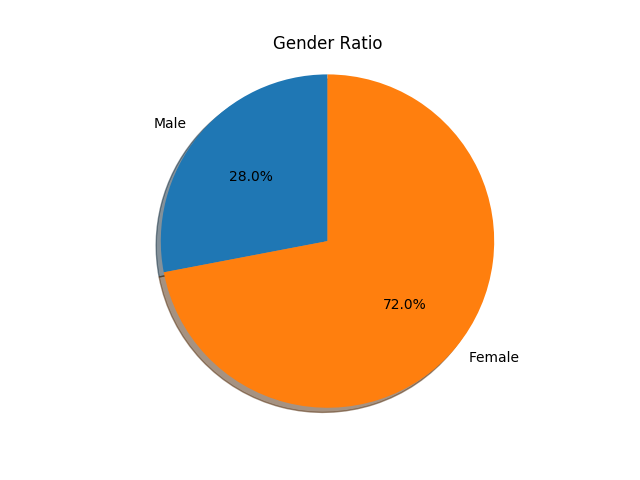
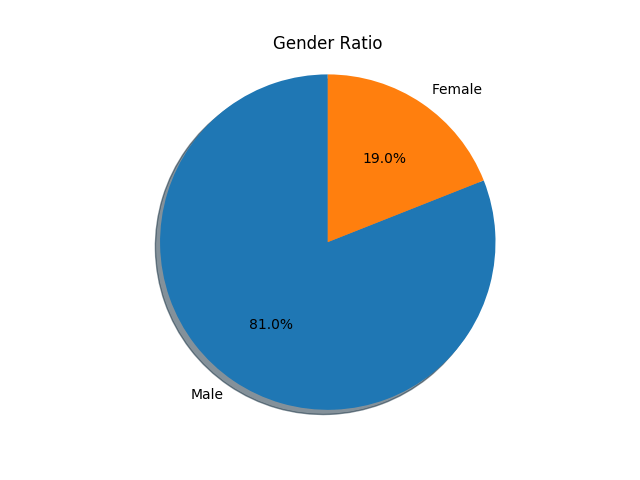
Fixed graphs function and uploaded physicist gender

diff --git a/graphs.py b/graphs.py
@@ -31,20 +31,20 @@ divorcerate_df = pd.DataFrame(divorcerate)
 gender = pd.read_csv('files/tabula-gender.csv')
 gender_df = pd.DataFrame(gender)
 
-spending = pd.read_csv('files/tabula-spending.csv')
-spending_df = pd.DataFrame(spending)
+#spending = pd.read_csv('files/tabula-spending.csv')
+#spending_df = pd.DataFrame(spending)
 
 race = pd.read_excel("files/race.xlsx")
 race_df = pd.DataFrame(race)
 
 
-def get_gender(a, b):
+def get_gender(job):
     """
     This function generates a pie chart for gender ratio in particular occupation.
-    The first argument is male percentage, the second argument is female percentage.
+    Simply type the job name.
     """
     new_labels = 'Male', 'Female'
-    new_sizes = [a, b]
+    new_sizes = [dt.get_specfic_value(gender_df, job, 'Men'), dt.get_specfic_value(gender_df, job, 'Wmn')]
     explode = (0, 0)
     fig1, ax1 = plt.subplots()
     ax1.pie(new_sizes, explode=explode, labels=new_labels,
@@ -53,15 +53,15 @@ def get_gender(a, b):
     ax1.axis('equal')
     plt.title('Gender Ratio')
     plt.show()
-    fig1.savefig('FinalProject/FinalFigures/' + 'gender.png', transparent = True)
+    fig1.savefig('gender.png', transparent = True)
 
-def get_race(a, b, c, d):
+def get_race(job):
     """
     This function generates a pie chart for ethnicity ratio in particular occupation.
-    The order of argument is White, Black or African American, Asian, and Hispanic or Latino.
+    It takes the occupation name as an argument.
     """
     new_labels = 'White', 'Black or African American', 'Asian', 'Hispanic or Latino'
-    new_sizes = [a, b, c, d]
+    new_sizes = [dt.get_specfic_value(race_df, job, 'White'), dt.get_specfic_value(race_df, job, 'black'), dt.get_specfic_value(race_df, job, 'asian'), dt.get_specfic_value(race_df, job, 'hispanic')]
     explode = (0, 0, 0.2, 0)
     fig1, ax1 = plt.subplots()
     ax1.pie(new_sizes, explode=explode, labels=new_labels,
@@ -73,11 +73,12 @@ def get_race(a, b, c, d):
     plt.show()
     fig1.savefig('race.png', transparent = True)
 
-def create_worktime(work_time):
+def create_worktime(job):
     """
     This function creates a histogram that shows the percentage of workers
     working throughout the 24 hour period.
     """
+    work_time = dt.get_time_row(timework_df, job)
     fig, ax = plt.subplots()
     time_list = work_time[0].index.tolist() + work_time[1].index.tolist()
     percent_list = work_time[0].tolist() + work_time[1].tolist()
@@ -99,7 +100,7 @@ def create_worktime(work_time):
     plt.show()
     fig.savefig('time.png', transparent = True)
     return time_list
-def create_income(income):
+def create_income(job):
     """
     This function creates a diagram that represents income using stack
     of "paper bills", which are green parallelograms. Each bill represents
@@ -107,7 +108,7 @@ def create_income(income):
     """
     fig = plt.figure()
     ax = fig.add_subplot(111, aspect='equal')
-    income = int(income) // 10000
+    income = int(dt.get_specfic_value(OES_df, job, 'annual mean wage')) // 10000
     for i in range(0,income):
         x = [0.2,0.7,.8,.3]
         y = [0.15 + i*0.05,0.15+i*0.05,0.25+i*0.05,0.25+i*0.05]
@@ -119,12 +120,12 @@ def create_income(income):
     plt.show()
     fig.savefig('income.png', transparent = True)
 
-def create_population(population):
+def create_population(job):
     """
     This function creates a circle diagram that represents population holding
     particular occupation in the U.S.
     """
-    pop = int(dt.get_specfic_value(OES_df, population, 'employment'))
+    pop = int(dt.get_specfic_value(OES_df, job, 'employment'))
     pop1 = pop/1000000
     W, H = (500, 500)
     r = 50
@@ -135,7 +136,7 @@ def create_population(population):
     image = Image.new('RGBA', (W, H))
     msg = 'Population Circle Diagram'
     msg1 = 'U.S. Adult Population'
-    msg2 = population
+    msg2 = job
     font = ImageFont.truetype('DejaVuSans.ttf', 15)
     draw = ImageDraw.Draw(image)
     w, h = draw.textsize(msg, font = font)
@@ -154,30 +155,18 @@ def create_population(population):
     draw.rectangle(((250 - 210 * pop1/300 , 250 - 210 * pop1 /300) , (250 + 210 * pop1/300, (H-h3)*3/5)), fill="black")
     image.show()
     image.save('population.png', transparent = True)
-def modify_image(a):
-    """
-    This function modifies the image from create_population so that the
-    background is transparent.
-    """
-    img = Image.open(a)
-    imga = img.convert("RGBA")
-    datas = imga.getdata()
 
-    newData = list()
-    for item in datas:
-        if item[0] == 255 and item[1] == 255 and item[2] == 255:
-            newData.append([255, 255, 255, 0])
-        else:
-            newData.append(item)
-
-    imgb = Image.frombuffer("RGBA", imga.size, newData, "raw", "RGBA", 0, 1)
-    imgb.save(a, "PNG")
-def create_map(data):
+def create_map(job):
     """
     This function creates a choropleth U.S. map, where the shade of colors
     in each state represents the density of people holding the occupation in
     each state.
     """
+    if job == 'mechancinal engineer':
+        job = 'mech_eng'
+    elif job == 'farmers':
+        job = 'farm'
+    data = dt.get_state_data(job)
     dataset = []
     states_list = data[0]
     data_list = data[1]
@@ -218,40 +207,42 @@ def create_map(data):
 
     show(p)
     export_png(p, filename="map.png")
-def create_happiness(a, b):
+def compare_suicide(job):
     """
-    This competition shows a bar graph that compares the average suicide rate
+    This function shows a bar graph that compares the average suicide rate
     of U.S. workers with the suicide rate of people holding partiular job.
     """
+    if job == 'Software Developers':
+        job = 'software'
+    value = int(float(dt.get_specfic_value(suiciderate_df, job, 'total')))
     fig, ax = plt.subplots()
     index = np.arange(2)
     bar_width = 0.3
     opacity = 0.8
-    rects1 = plt.bar(index, [a,b], bar_width,
+    rects1 = plt.bar(index, [dt.get_average(suiciderate_df, 'total'), value], bar_width,
                  alpha=opacity,
                  color='r')
     plt.ylabel('Suicide Rate (per 100000 people)')
     plt.title('Suicide Rate')
-    plt.xticks(index, ('Average Job', 'Farmers'))
+    if job == 'software':
+        job = 'Software Developers'
+    plt.xticks(index, ('Average Job', job))
     plt.tight_layout()
     plt.show()
     fig.savefig('mort.png', transparent = True)
 
-def create_graphs(a):
+def create_graphs(job):
     """
     This function generates all the necessary graphs at once. You simply type
     the occupation name.
     """
-    create_population(a)
-    create_income(dt.get_specfic_value(OES_df, a, 'annual mean wage'))
-    create_happiness(dt.get_average(suiciderate_df, 'total'), dt.get_specfic_value(suiciderate_df, a, 'total'))
-    get_gender(dt.get_specfic_value(gender_df, a, 'Men'), dt.get_specfic_value(gender_df, a, 'Wmn'))
-    get_race(dt.get_specfic_value(race_df, a, 'White'), dt.get_specfic_value(race_df, a, 'black'), dt.get_specfic_value(race_df, a, 'asian'), dt.get_specfic_value(race_df, a, 'hispanic'))
-    create_worktime(dt.get_time_row(timework_df, a))
-    if a == 'mechanical engineer':
-        create_map(dt.get_state_data('mech_eng'))
-    elif a == 'farmer':
-        create_map(dt.get_state_data('farm'))
-    else:
-        create_map(dt.get_state_data(a))
-create_population('Farm')
+    create_population(job)
+    create_income(job)
+    compare_suicide(job)
+    get_gender(job)
+    get_race(job)
+    create_worktime(job)
+    create_map(job)
+#create_population('Farm')
+#create_graphs('Software Developers')
+compare_suicide('Software Developers')
